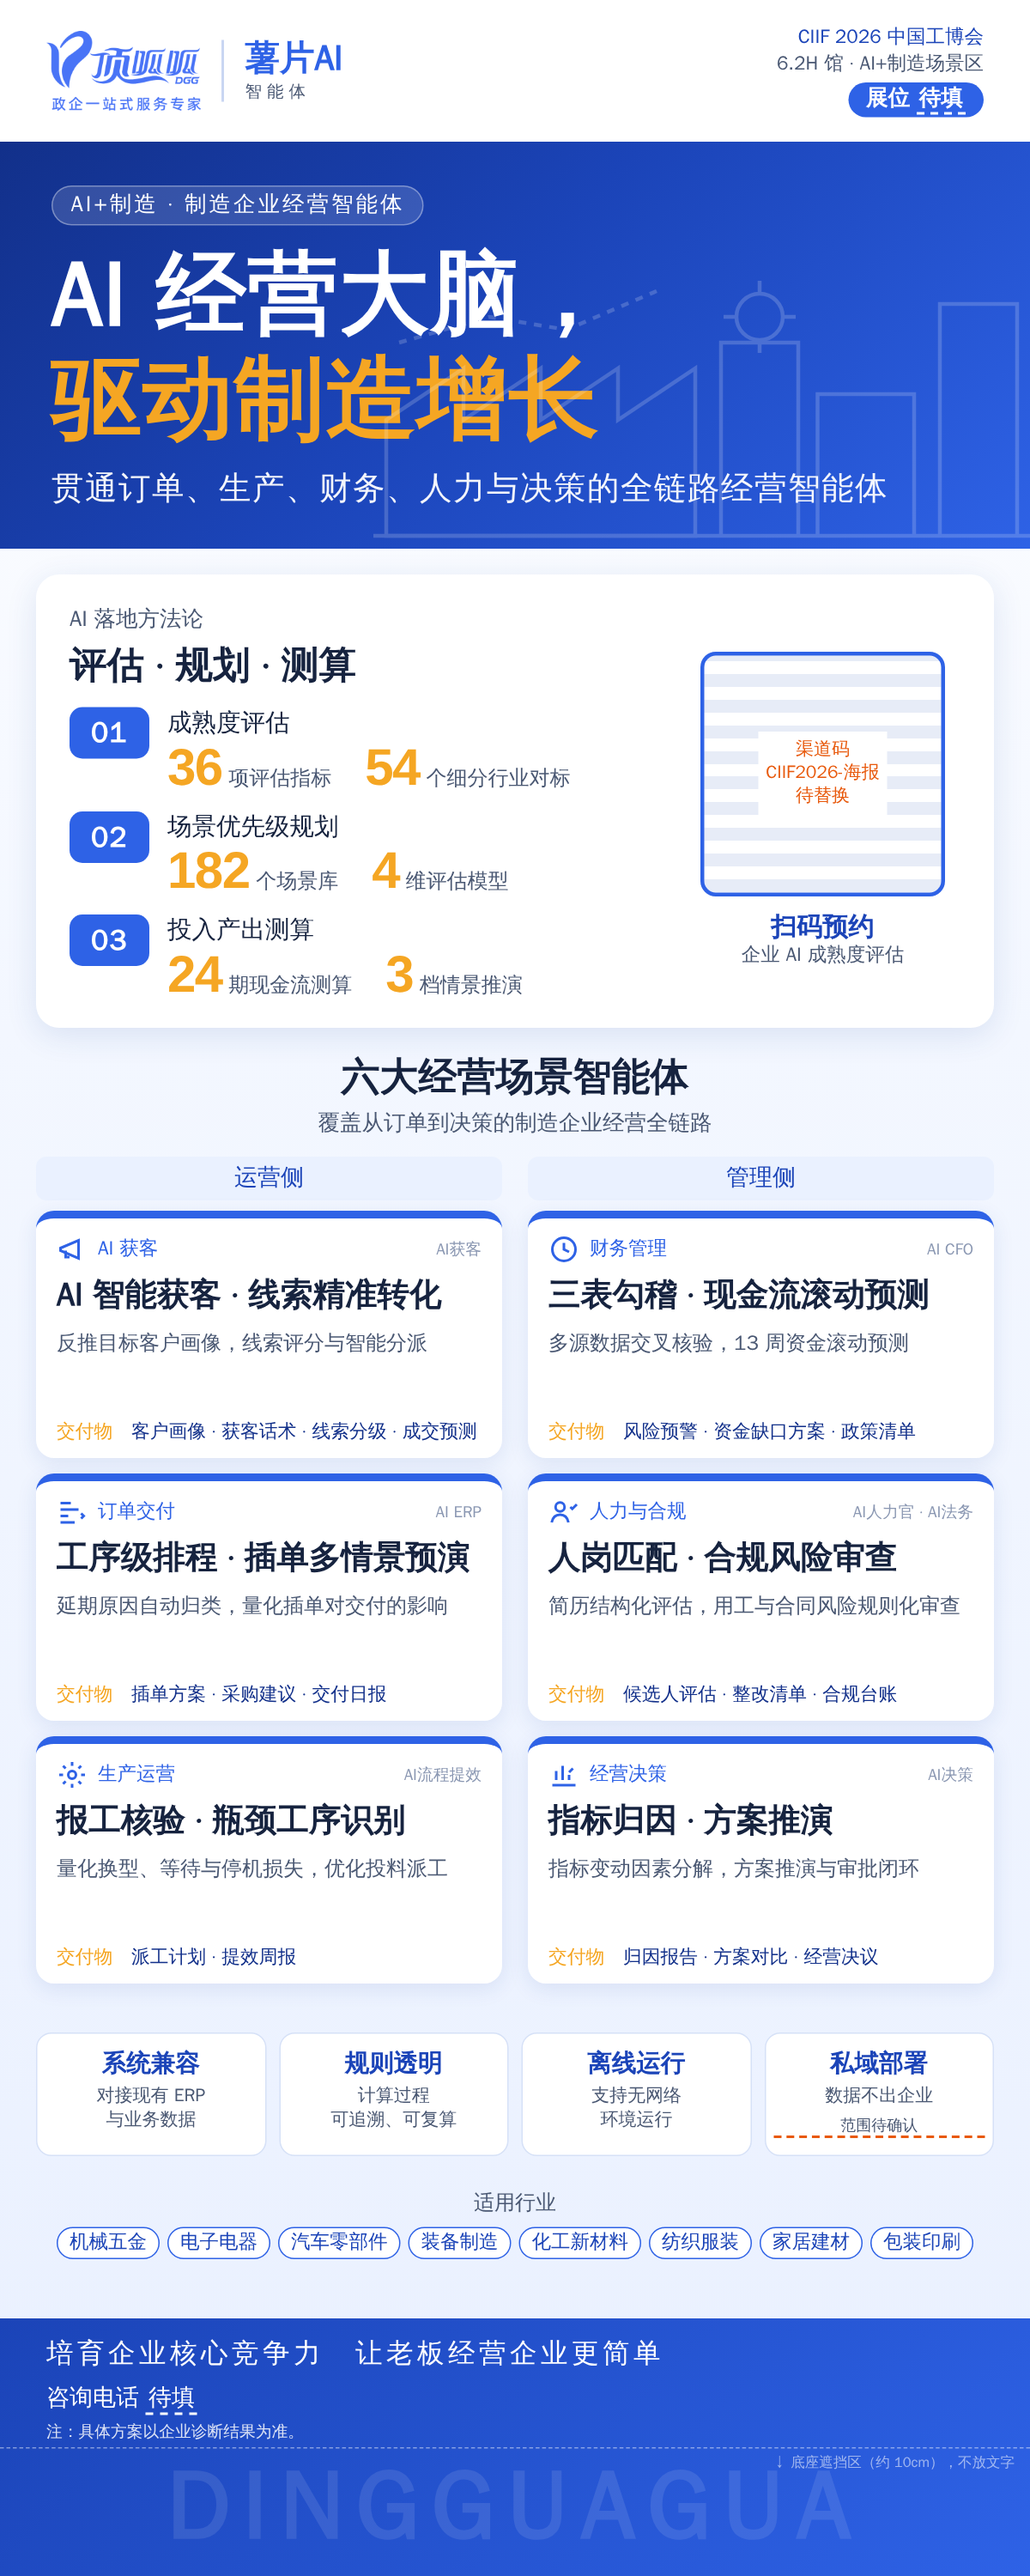
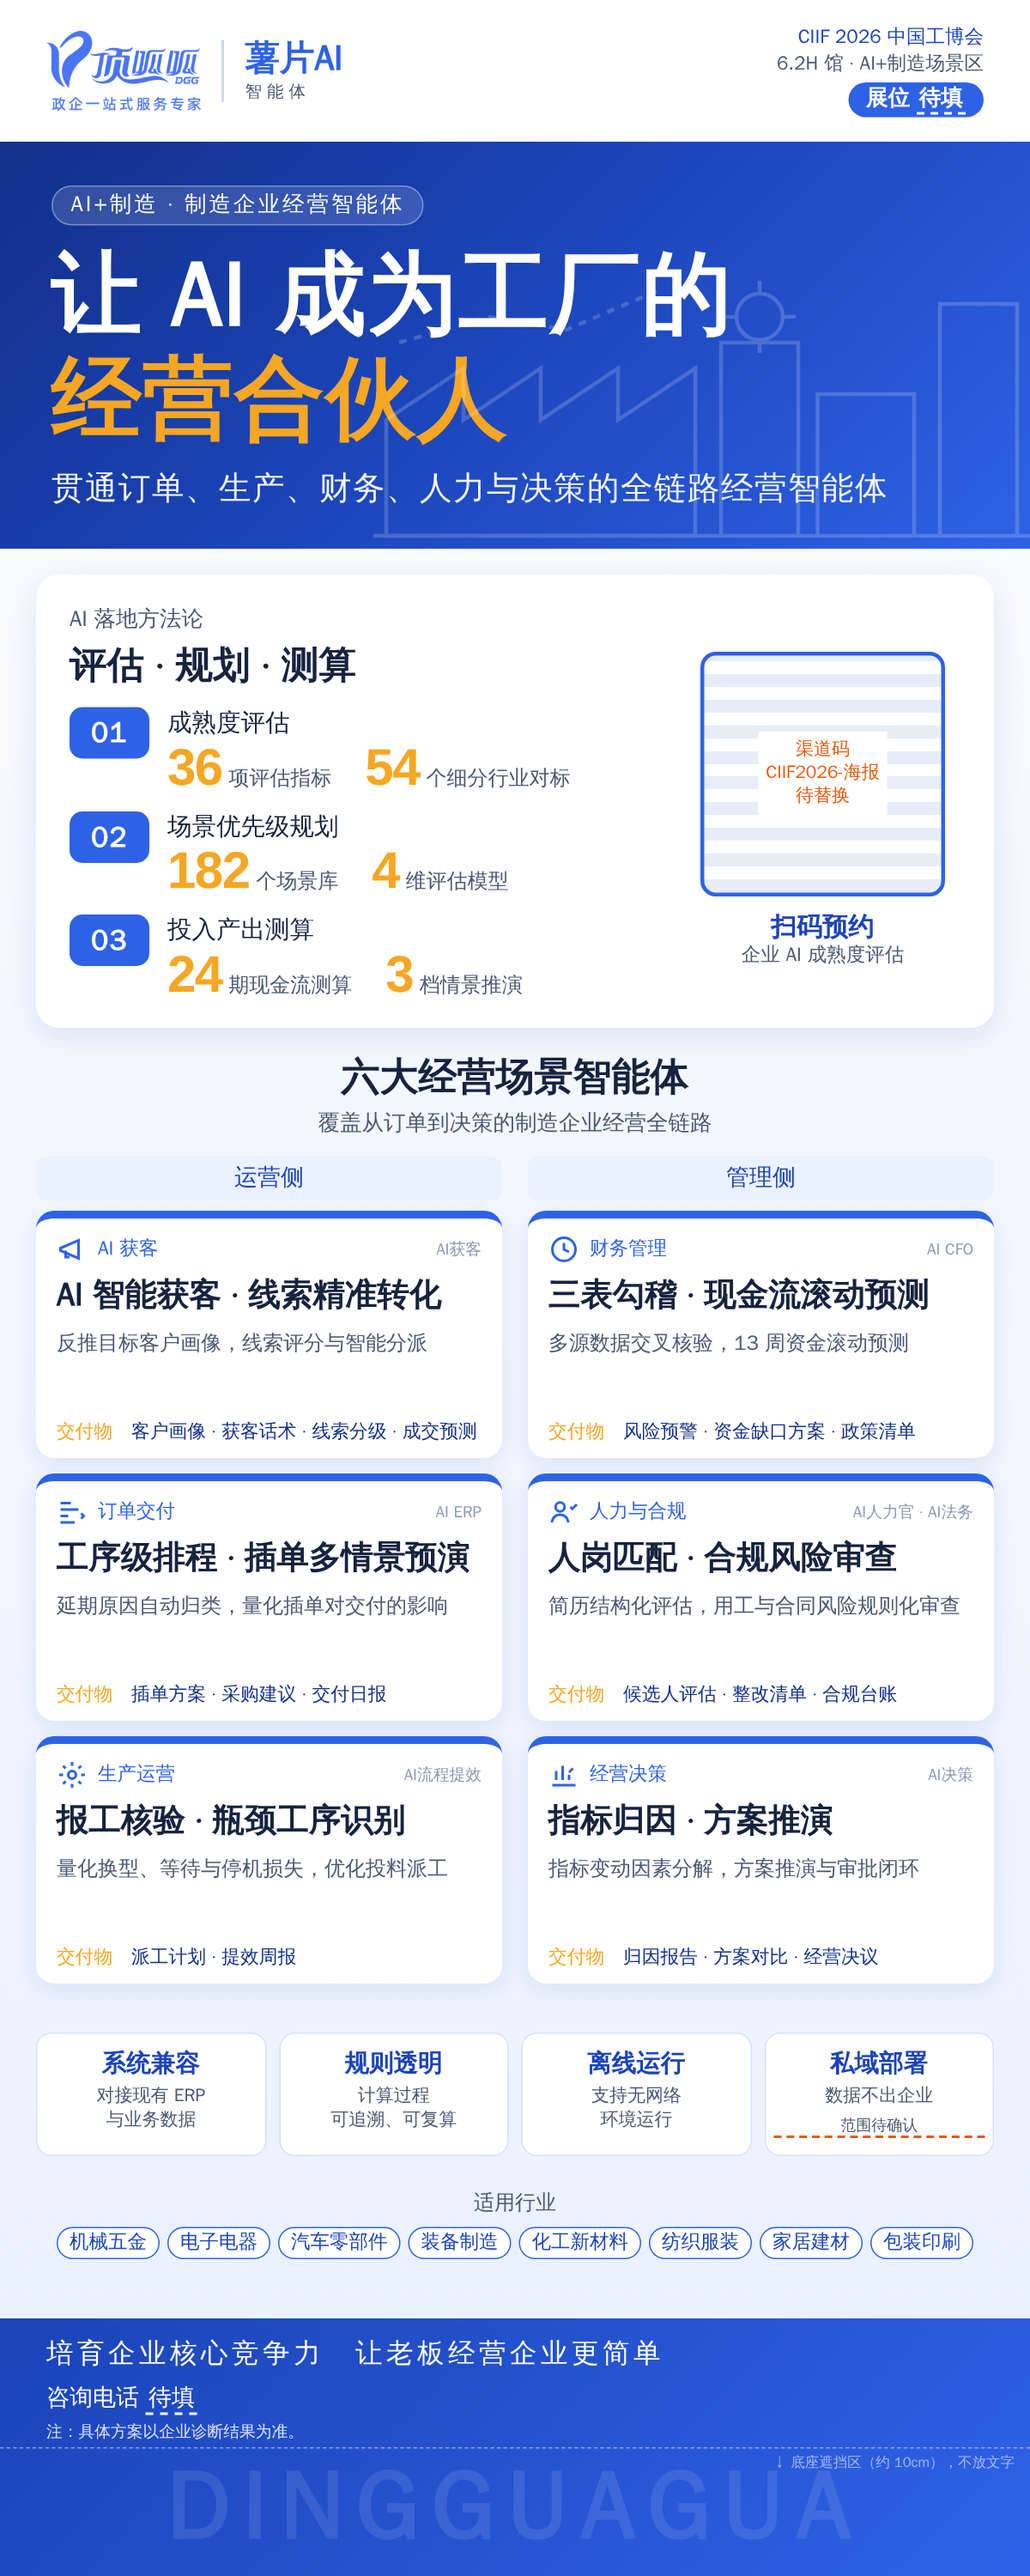
docs(ciif-2026): 主标题定稿为「让 AI 成为工厂的经营合伙人」
Claude-Session: https://claude.ai/code/session_01N2KqNqYVcnSw2UkH8xm6m3

Changed region(s): [[0.0308, 0.093, 0.7092, 0.186]]

diff --git a/ciif-2026/poster/poster.html b/ciif-2026/poster/poster.html
@@ -133,7 +133,7 @@
     <path d="M20 60 L90 40 L150 50 L220 20" stroke-dasharray="6 6"/>
   </svg>
   <div class="eyebrow">AI+制造 · 制造企业经营智能体</div>
-  <div class="h1">AI 经营大脑，<br><em>驱动制造增长</em></div>
+  <div class="h1">让 AI 成为工厂的<br><em>经营合伙人</em></div>
   <div class="sub">贯通订单、生产、财务、人力与决策的全链路经营智能体</div>
 </div>
 

diff --git a/ciif-2026/02-工博会海报方案.md b/ciif-2026/02-工博会海报方案.md
@@ -44,7 +44,7 @@ v2 根据两条反馈修订：
 | 区 | 文案 |
 |---|---|
 | ① 顶栏 | 左：顶呱呱 logo｜薯片AI 智能体；右：CIIF 2026 中国工博会 · 6.2H 馆 · AI+制造场景区 · 展位【待填】 |
-| ② 主标题 | 眉题：**AI+制造 · 制造企业经营智能体**<br>主标题：**AI 经营大脑，驱动制造增长**（备选：让 AI 成为工厂的经营合伙人 / 从订单到利润，AI 全链驱动 / 智造新引擎，AI 赋能每一环，见 poster/headline-options.png）<br>副标题：**贯通订单、生产、财务、人力与决策的全链路经营智能体** |
+| ② 主标题 | 眉题：**AI+制造 · 制造企业经营智能体**<br>主标题：**让 AI 成为工厂的经营合伙人**（已定稿，其余备选：AI 经营大脑，驱动制造增长 / 从订单到利润，AI 全链驱动 / 智造新引擎，AI 赋能每一环，见 poster/headline-options.png）<br>副标题：**贯通订单、生产、财务、人力与决策的全链路经营智能体** |
 | ③ 方法论＋扫码 | 眉题：AI 落地方法论　标题：**评估 · 规划 · 测算**<br>01 成熟度评估｜**36** 项评估指标 · **54** 个细分行业对标<br>02 场景优先级规划｜**182** 个场景库 · **4** 维评估模型<br>03 投入产出测算｜**24** 期现金流测算 · **3** 档情景推演<br>（数字用琥珀色大字突出；出处：01/02/03 各自的 SKILL.md）<br>二维码：**扫码预约 · 企业 AI 成熟度评估** |
 | ④ 六大场景 | 标题：**六大经营场景智能体**　副题：覆盖从订单到决策的制造企业经营全链路（左列"运营侧"，右列"管理侧"） |
 | ⑤ 能力底座 | **系统兼容**（对接现有 ERP 与业务数据）· **规则透明**（计算过程可追溯、可复算）· **离线运行**（支持无网络环境运行）· **私域部署**（数据不出企业【范围待确认】） |
